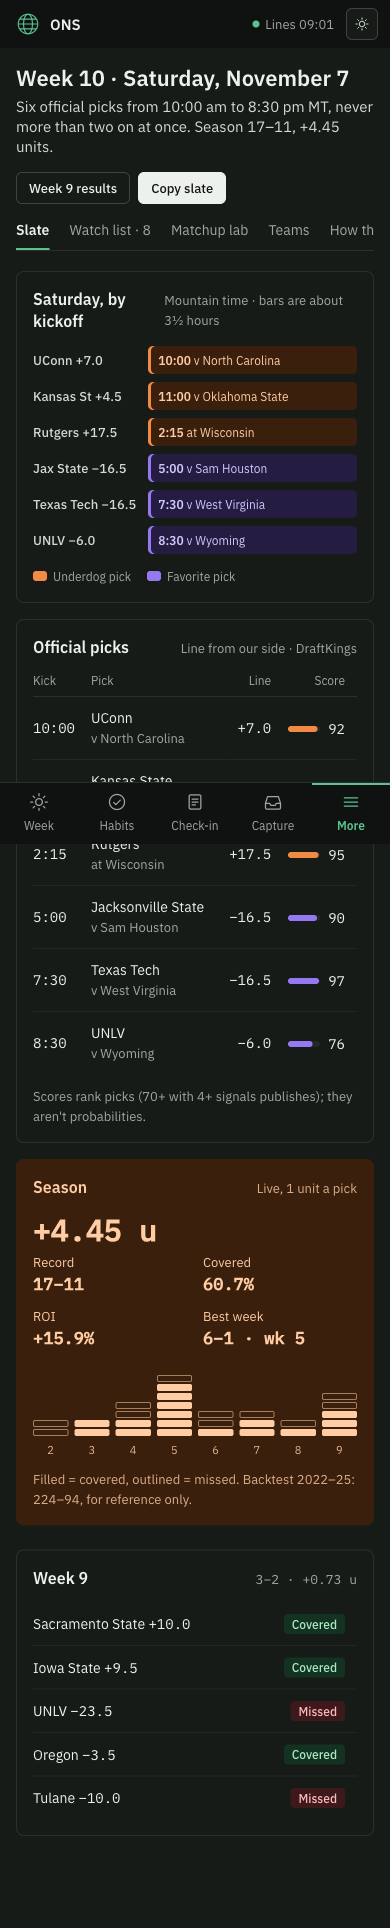
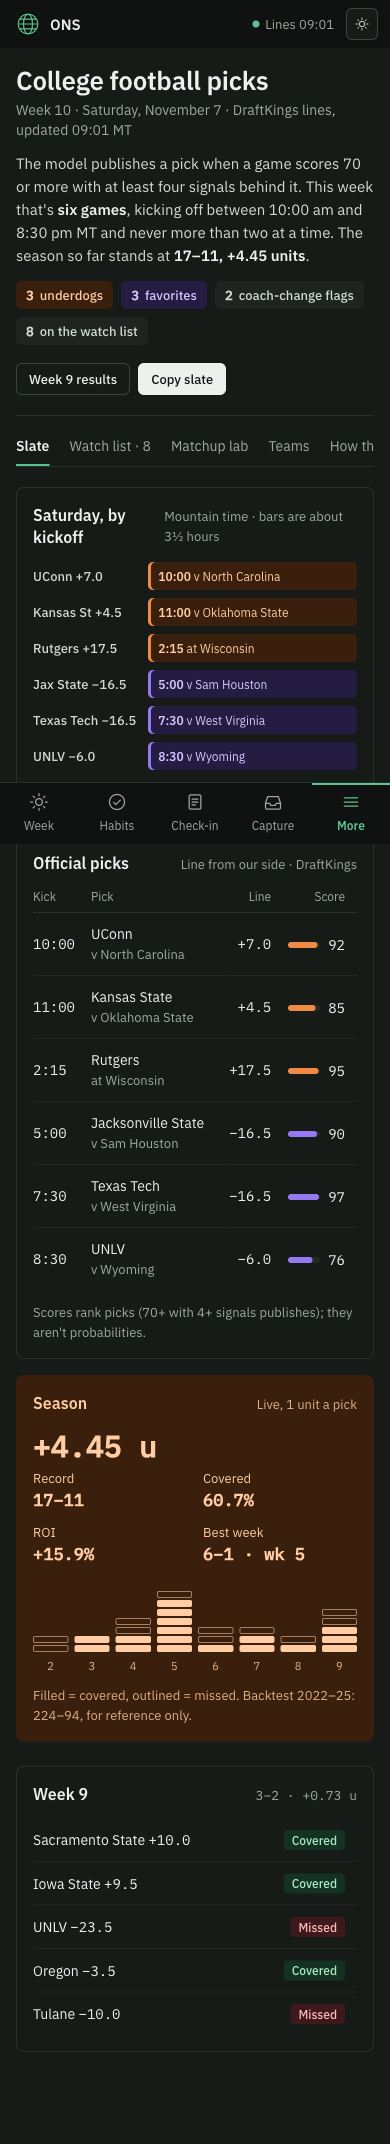
Logbook Color: page intros with title, coach paragraph and next steps

Changed region(s): [[0.0308, 0.0, 0.9846, 0.9647], [0.8923, 0.0, 0.9538, 0.0311], [0.9538, 0.4046, 0.9846, 0.4357]]

diff --git a/docs/design/directions/6-logbook-color/style.css b/docs/design/directions/6-logbook-color/style.css
@@ -87,6 +87,27 @@ svg.i { width: 16px; height: 16px; flex: none; }
 .title { display: flex; justify-content: space-between; align-items: flex-end; gap: 16px; margin-bottom: 16px; }
 h1 { font: 600 22px/28px var(--sans); margin: 0; }
 .finding { margin: 4px 0 0; font-size: 15px; color: var(--ink-2); }
+
+/* Page intro: title, the span it covers, then one coach paragraph. Gives the page a way in
+   before the data starts. */
+.intro { display: flex; justify-content: space-between; align-items: flex-start; gap: 24px; padding: 4px 0 20px; margin-bottom: 20px; border-bottom: 1px solid var(--border); }
+.intro h1 { font: 600 30px/36px var(--sans); letter-spacing: -.01em; }
+.intro .span { margin: 4px 0 0; font-size: 14px; color: var(--muted); }
+.intro .lede { margin: 12px 0 0; max-width: 68ch; font-size: 16px; line-height: 25px; color: var(--ink-2); }
+.intro .lede b { color: var(--ink); font-weight: 600; }
+.intro .acts { display: flex; gap: 8px; flex: none; padding-top: 4px; }
+
+/* Next steps: up to four things to do today, each in its area's colour */
+.next { display: grid; grid-template-columns: repeat(4, minmax(0, 1fr)); gap: 12px; margin: 16px 0 0; padding: 0; list-style: none; }
+.next li { display: flex; flex-direction: column; gap: 2px; padding: 12px 14px; border-radius: 8px; background: var(--l); color: var(--l-ink); box-shadow: inset 3px 0 0 var(--l-mark); }
+.next b { font-size: 14px; font-weight: 600; }
+.next span { font-size: 13px; line-height: 18px; }
+.next .kick-n { font: 500 12px var(--mono); opacity: .85; }
+
+/* Facts row (CFB): small inline counts under the lede */
+.facts { display: flex; flex-wrap: wrap; gap: 8px; margin: 14px 0 0; padding: 0; list-style: none; }
+.facts li { display: inline-flex; align-items: center; gap: 6px; height: 28px; padding: 0 10px; border-radius: 6px; background: var(--l, var(--raised)); color: var(--l-ink, var(--ink-2)); font-size: 13px; font-weight: 500; }
+.facts li .n { font-weight: 600; }
 .finding em { font-style: normal; font-weight: 600; padding: 0 4px; border-radius: 4px; }
 .btn { height: 32px; padding: 0 12px; border-radius: 6px; border: 1px solid var(--control); background: var(--sheet); color: var(--ink); font: 500 13px var(--sans); display: inline-flex; align-items: center; gap: 6px; cursor: pointer; text-decoration: none; transition: transform .12s ease-out, background-color .15s ease-out; }
 .btn:hover { background: var(--raised); } .btn:active { transform: scale(.97); }
@@ -212,6 +233,11 @@ td .sub { display: block; font-size: 13px; color: var(--muted); }
   .top { padding: 0 12px 0 16px; justify-content: flex-end; }
   .sheet { grid-column: 1 / -1; margin: 0; border-radius: 0; border: 0; padding: 16px 16px 92px; }
   .title { flex-direction: column; align-items: stretch; }
+  .intro { flex-direction: column; gap: 14px; padding-top: 0; }
+  .intro h1 { font-size: 26px; line-height: 32px; }
+  .intro .lede { font-size: 15px; line-height: 23px; }
+  .next { grid-template-columns: minmax(0, 1fr); gap: 8px; }
+  .next li { flex-direction: row; flex-wrap: wrap; align-items: baseline; gap: 2px 8px; padding: 10px 12px; }
   .grid { grid-template-columns: minmax(0, 1fr); gap: 16px; }
   .grid > * { grid-column: auto; }
   .card { padding: 16px; }

diff --git a/docs/design/directions/6-logbook-color/cfb.html b/docs/design/directions/6-logbook-color/cfb.html
@@ -55,13 +55,20 @@
   </nav>
 
   <main class="sheet">
-    <div class="title">
+    <header class="intro">
       <div>
-        <h1>Week 10 · Saturday, November 7</h1>
-        <p class="finding">Six official picks from 10:00 am to 8:30 pm MT, never more than two on at once. Season 17–11, +4.45 units.</p>
+        <h1>College football picks</h1>
+        <p class="span">Week 10 · Saturday, November 7 · DraftKings lines, updated 09:01 MT</p>
+        <p class="lede">The model publishes a pick when a game scores 70 or more with at least four signals behind it. This week that's <b>six games</b>, kicking off between 10:00 am and 8:30 pm MT and never more than two at a time. The season so far stands at <b>17–11, +4.45 units</b>.</p>
+        <ul class="facts" aria-label="This week at a glance">
+          <li class="dog"><span class="n">3</span> underdogs</li>
+          <li class="fav"><span class="n">3</span> favorites</li>
+          <li><span class="n">2</span> coach-change flags</li>
+          <li><span class="n">8</span> on the watch list</li>
+        </ul>
       </div>
-      <div style="display:flex;gap:8px"><a class="btn" href="#">Week 9 results</a><a class="btn pri" href="#">Copy slate</a></div>
-    </div>
+      <div class="acts"><a class="btn" href="#">Week 9 results</a><a class="btn pri" href="#">Copy slate</a></div>
+    </header>
     <nav class="tabs" aria-label="CFB"><a href="cfb.html" aria-current="page">Slate</a><a href="#">Watch list · 8</a><a href="#">Matchup lab</a><a href="#">Teams</a><a href="#">How the model works</a></nav>
 
     <div class="grid">

diff --git a/docs/design/directions/6-logbook-color/home.html b/docs/design/directions/6-logbook-color/home.html
@@ -55,13 +55,20 @@
   </nav>
 
   <main class="sheet">
-    <div class="title">
+    <header class="intro">
       <div>
-        <h1>Week of November 2</h1>
-        <p class="finding">Tuesday. One run so far this week and no CrossFit; Saturday has six picks and Ma's birthday.</p>
+        <h1>This week</h1>
+        <p class="span">Tuesday, November 3 · week of Nov 2–8 · 58 days left in 2026</p>
+        <p class="lede">A slow start: <b>one run so far and no CrossFit</b>. Running is on pace if you keep up last week's 10 miles; reading is one book behind. Saturday is the big day, with <b>six picks from 10:00</b> and <b>Ma's birthday</b>.</p>
+        <ol class="next" aria-label="Next steps today">
+          <li class="l-check"><b>Check in</b><span>Today's check-in is due</span></li>
+          <li class="l-habit"><b>Log 4 habits</b><span>None done yet today</span></li>
+          <li class="l-lift"><b>Get a class in</b><span>No CrossFit logged since Oct 27</span></li>
+          <li class="l-read"><b>Finish book 8</b><span>By Nov 22 to catch up</span></li>
+        </ol>
       </div>
-      <div style="display:flex;gap:8px"><a class="btn" href="#">Check in</a><a class="btn pri" href="#">Log today's habits</a></div>
-    </div>
+      <div class="acts"><a class="btn" href="#">Check in</a><a class="btn pri" href="#">Log today's habits</a></div>
+    </header>
 
     <div class="grid">
       <section class="card s12" aria-labelledby="wk-h">

diff --git a/docs/design/directions/6-logbook-color/README.md b/docs/design/directions/6-logbook-color/README.md
@@ -33,6 +33,11 @@
   - The switch is instant, with no transition. `theme.js` runs in `<head>`, so the page doesn't flash the wrong theme on load.
   - Dark mode uses true near-black greens (ground `#0f1210`, sheet `#171b18`). The tints become deep fills with pale inks, so lanes still read as colour rather than grey.
   - In real code this becomes a `data-theme` attribute on `<html>`, with tokens defined twice in `globals.css` and Tailwind colours mapped to CSS variables.
+- **A page intro, so the page doesn't open straight onto dates.**
+  - Each page opens with a 30px title ("This week", "College football picks"), then a muted line giving the span it covers, then one coach-voice paragraph saying what matters.
+  - Home adds four **next steps** in their area colours: check in, log 4 habits, get a CrossFit class in, finish book 8 by Nov 22.
+  - The slate adds a row of small counts: 3 underdogs, 3 favourites, 2 coach-change flags, 8 on the watch list.
+  - A rule separates the intro from the data.
 - **Phone fixes along the way:**
   - The kickoff strip turns into a list of games on phones, where it used to be an empty card.
   - Score bars keep the side's colour, so the side reads without the hidden Side column.
